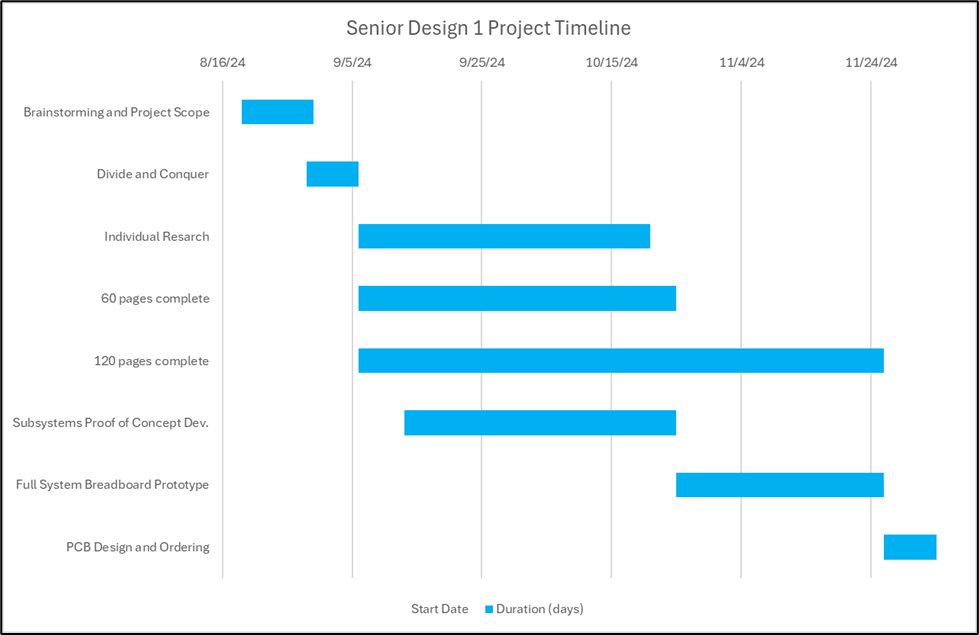
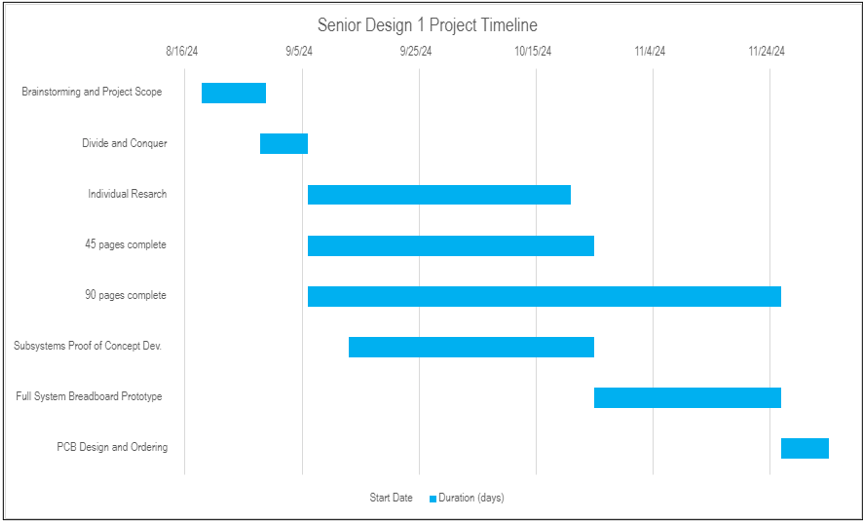
update 60 to 45, 120 to 90. changed subsubsections to subsections for proper indexing. added image and design consideration of rollator

diff --git a/Chapter6-HWDesign/6_0-mounting.tex b/Chapter6-HWDesign/6_0-mounting.tex
@@ -1,3 +1,18 @@
+\subsection{Rollator}
+\noindent The most clear option for the choice of walker frame, to be outfitted with motors and the electronics system, is a standard medical rollator, available on common online commercial marketplaces. The steel frame remains at a weight under 20 pounds, and its dimensions are given as 25.5"D x 31"W x 23.5"H. It comes with a seat, storage compartment, and pneumatically actuated brakes. The FORWARD team plans to remove the seat and storage compartment to replace with the electronics housing, change the braking system to velocity control, and to dismount the wheels to install the DC motors. The wheels are also 7.5 inch diameter, which we anticipate will provide enough torque for the adaptive velocity control and steering enacted by the motor shield.\\
+
+\begin{figure}[H]
+	\centering
+	\includegraphics[width=0.3\textwidth]{./Images/rollator-amaz.jpg}
+	\caption{\label{fig:rollator-amaz}Medical Rollator}
+\end{figure}
+
+\noindent There are many other variants of rollators available - some with enlarged front wheels and some with only three wheels altogether. There seem to be two main shapes of frame: A and what we can call $\lambda$. We estimate that, the A frame is more appropriate for our purposes. FORWARD velocity control and electric braking also requires four wheels.\\
+
+% morgan - do we fix the wheels in place? most of them swivel like castors
+
+% matthew
+\subsection{Electronics Chassis}
 \noindent Discuss psychical location of all elements and components on the walker frame and explain the reason. explain plans for wiring and attachment (tape, glue, screws etc).\\
 
 \noindent discuss positioning of sensors on the walker, wiring; need for IMU to be level. installation of haptics. implementation of earpiece being available to user. braking, motor speed control. physical object avoidance margins. obstacle classifications.\\
@@ -5,7 +20,3 @@
 \noindent sensor housing, surface mount IMU (on PCB), surface mount LiDAR? (on PCB), PCB centrally mounted, bluetooth module centrally mounted?\\
 
 \noindent headlights? steering? braking? curb assist? tipover prevention with motors explained\\
-
-\subsubsection{Walker}
-
-\subsubsection{Electronics Chassis}

diff --git a/Chapter7-SWDesign/7_0-summary.tex b/Chapter7-SWDesign/7_0-summary.tex
@@ -1,11 +1,10 @@
+\subsection{Guidance, Navigation, and Control Software}
 \noindent GNC situation, tilt (attitude) using IMU, (incline decline), velocity and position solutions, ESP32 source code GitHub (hc-sr04.c luna.c haptic.c audio.c motor.c ip.c avoid.c), motor commands calculation\\
 
 \noindent UML class diagram\\
 
-\subsubsection{Guidance, Navigation, and Control Software}
+\subsection{Computer Vision}
 
-\subsubsection{Computer Vision}
+\subsection{Serial Interface}
 
-\subsubsection{Serial Interface}
-
-\subsubsection{Motor Control Software}
+\subsection{Motor Control Software}

diff --git a/Chapter9-Testing/9_1-systemtest.tex b/Chapter9-Testing/9_1-systemtest.tex
@@ -1,4 +1,5 @@
 \subsection{Prototype System Testing}
+% talks about different rigorous methods of testing the system
 
 \noindent FOV directivity test for range sensors, depression angle test, incoming data stream test.\\
 

diff --git a/sd1_paper_90.tex b/sd1_paper_90.tex
@@ -88,6 +88,7 @@
 	
 	% 2 pages
 	\section{Prototype Fabrication}
+	% PCB design philosophy, components to-be-included block diagram
 	
 	% 10 pages
 	\section{System Testing}
